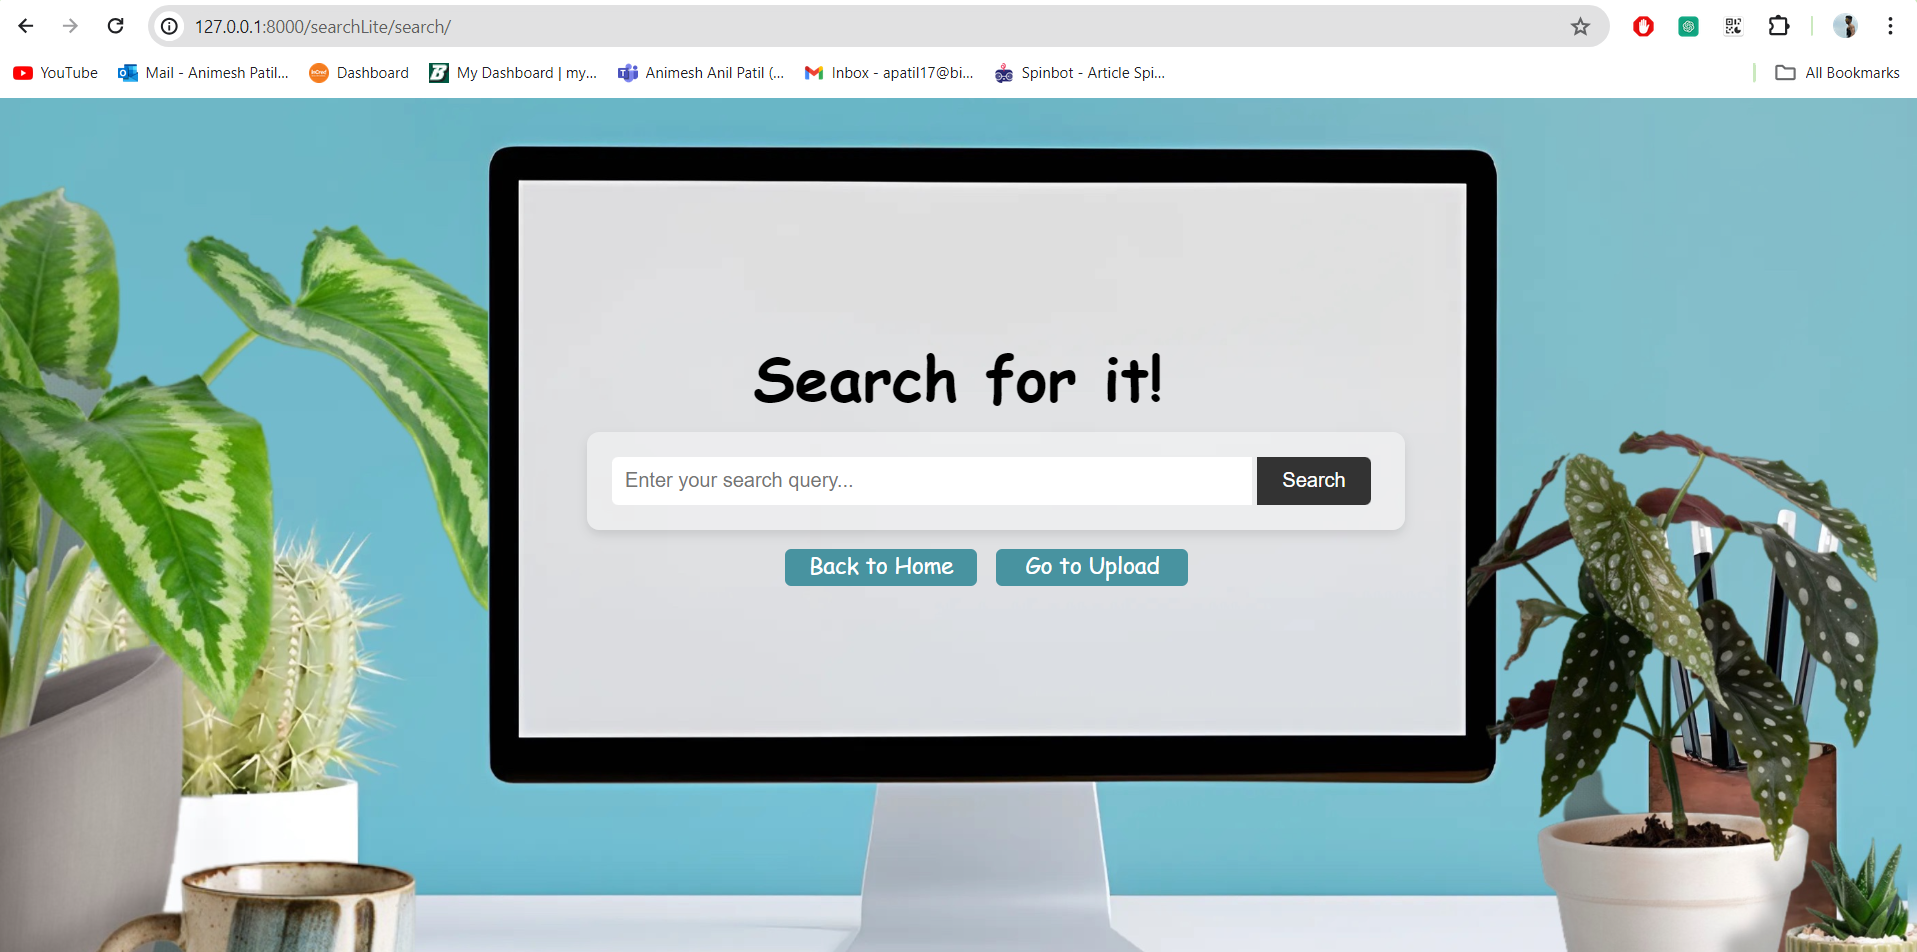
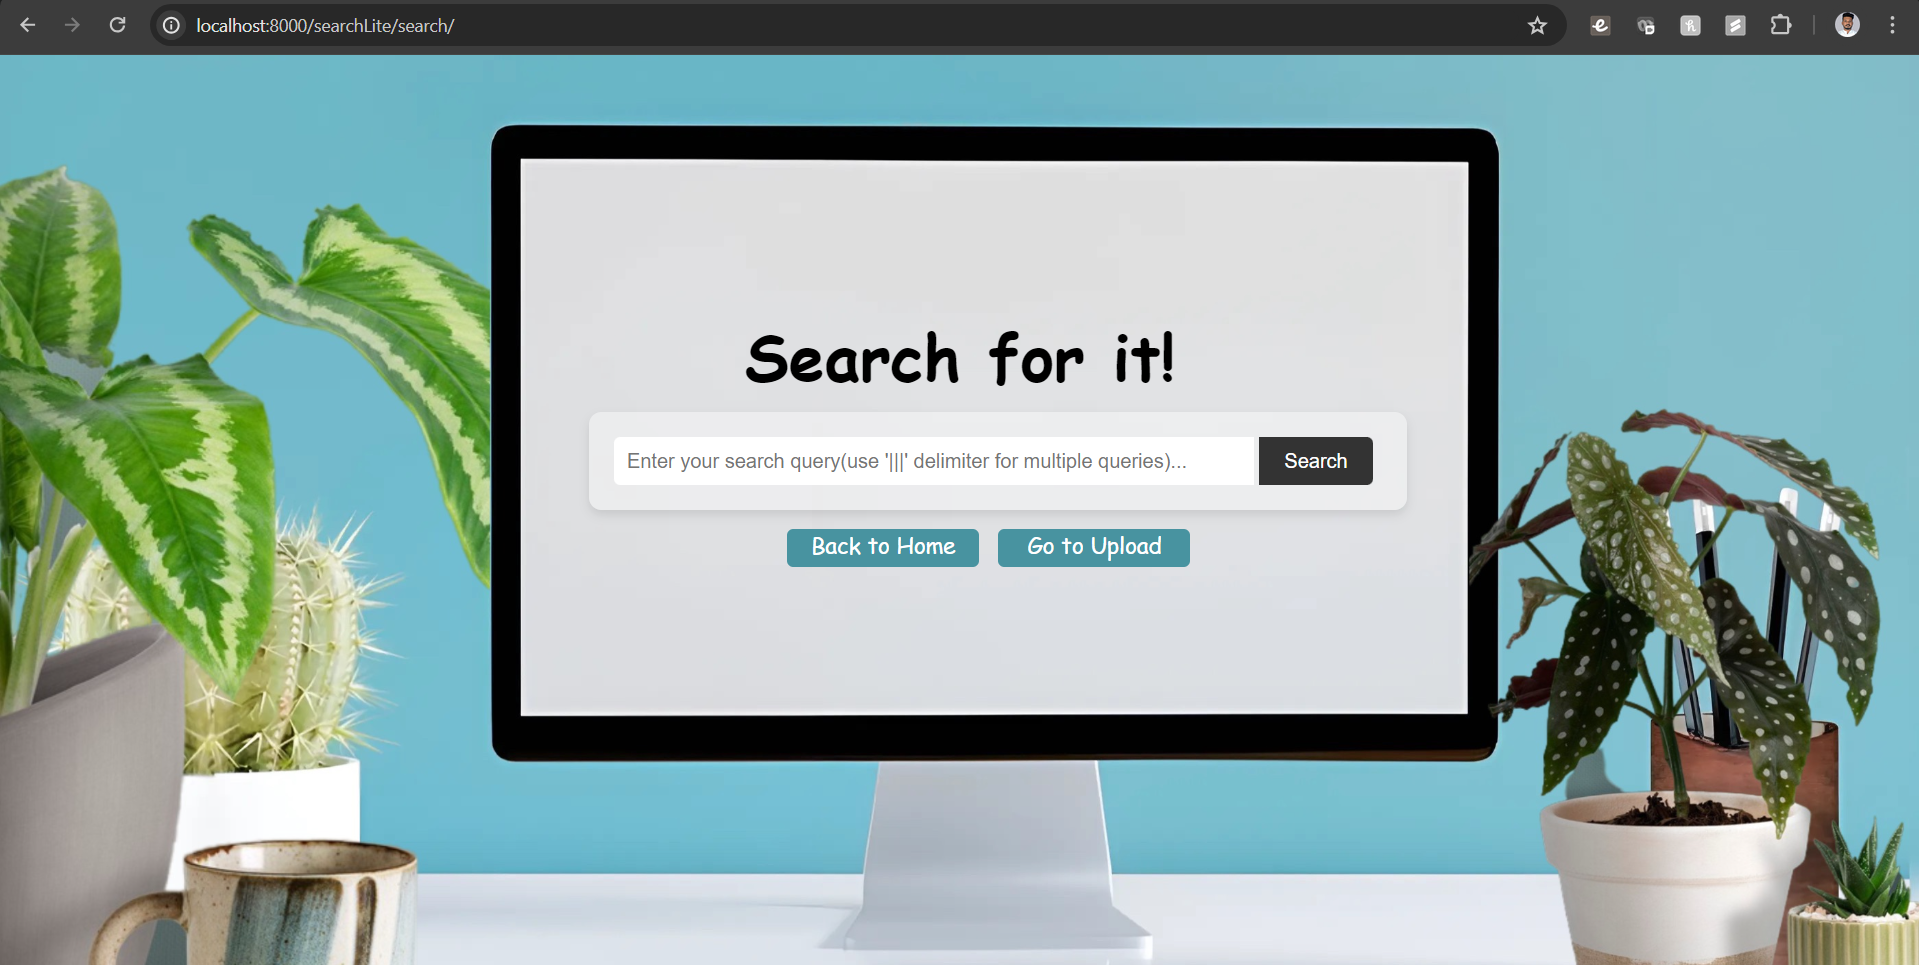
last last commit

diff --git a/searchLite/app/templates/results.html b/searchLite/app/templates/results.html
@@ -131,7 +131,7 @@
     <div class="search-container">
         <form method="post" action="{% url 'search' %}" style="width: 200%;" onsubmit="return validateSearch()">
             {% csrf_token %}
-            <input type="text" class="search-input" name="search_input" id="searchInput" placeholder="Enter your search query..." value="{{ search_query }}" style="width: 80%;">
+            <input type="text" class="search-input" name="search_input" id="searchInput" placeholder="Enter your search query(use '|||' delimiter for multiple queries)..." value="{{ search_query }}" style="width: 80%;">
             <button class="search-button" type="submit">Search</button>
         </form>
     </div>

diff --git a/searchLite/app/templates/search.html b/searchLite/app/templates/search.html
@@ -75,7 +75,7 @@
     <div class="search-container">
         <form method="post" action="{% url 'search' %}" style="width: 120%;" onsubmit="return validateSearch()">
             {% csrf_token %}
-            <input type="text" class="search-input" name="search_input" id="searchInput" placeholder="Enter your search query..." style="width: 80%;">
+            <input type="text" class="search-input" name="search_input" id="searchInput" placeholder="Enter your search query(use '|||' delimiter for multiple queries)..." style="width: 80%;">
             <button class="search-button" type="submit">Search</button>
         </form>
     </div>

diff --git a/searchLite/app/views.py b/searchLite/app/views.py
@@ -189,7 +189,7 @@ def load_document(doc_id, queries, color_map={}):
 
     if document.stored_file_name.endswith('.pdf'):
         pdf_path = os.path.join(settings.BASE_DIR, 'corpus', document.stored_file_name)
-        destination_path = os.path.join(settings.BASE_DIR, 'highlighted_pdfs', document.stored_file_name)
+        destination_path = os.path.join(settings.BASE_DIR, 'highlighted_pdfs', f"{document.stored_file_name}.pdf")
         shutil.copy(pdf_path, destination_path)
         return view_pdf_document(destination_path, document.stored_file_name, queries, color_map=color_map)
     elif document.stored_file_name.endswith(('.doc', '.docx')):

diff --git a/README.md b/README.md
@@ -78,14 +78,17 @@ Certainly! Here's the information in a formatted list:
 6. Create database **SearchLite** and Collection **Posting**.
 
    ![alt text](searchLite/searchLite/static/image-3.png)
+   
+   If you are running mongoDB server on different URL then update the details in mongo_services.py file as below
+   ![alt text](searchLite/searchLite/static/image-10.png)
 
-6. Run the Django development server:
+7. Run the Django development server:
 
    ```bash
    python manage.py runserver
    ```
 
-7. Access the application at [http://127.0.0.1:8000/](http://127.0.0.1:8000/).
+8. Access the application at [http://127.0.0.1:8000/](http://127.0.0.1:8000/).
 
 ## Usage
 
